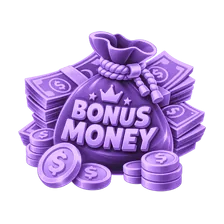
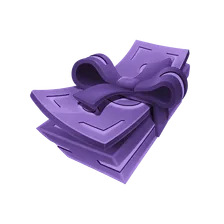
feat(prizes): swap in the final free-chips and bonus-money art
Both types shipped with generated stand-ins so the contract could go out
ahead of the artwork. This replaces them in every slot of both brands.

Vegas prize art is rebuilt from the originals inside the Figma mockup rather
than the copies that came round via Drive. Those were cropped with extra
padding: the object filled 5.7pp less of the frame than the mockup does, which
drew bonus-money noticeably smaller than cash on the card. cash and coin
already matched their frames to within 0.4pp, so they are the reference the
two new types are now aligned to — bonus-money sits 3.8% under cash, the same
gap the design has, instead of the 11.3% it had.

Vegas missed/ art is left alone: all six disco balls already agree to within
1.3pp, so the supervisor's export is right there.

Thor's objects-sm pair is derived from the new objects-lg art at the framing
ratio the existing lg/sm pairs share (1.0445), keeping a past day's object
slightly tighter in frame than today's, as the other five prizes do.

INTEGRATION.md §11 now describes the art as drawn, and carries back the note
that bonus-money is no longer an alias for cash — the one behaviour change in
this version, and the only thing an existing integration can trip over.

diff --git a/INTEGRATION.md b/INTEGRATION.md
@@ -29,6 +29,9 @@
 - пісочниця перемикається між брендами: `lootbox-test/index.html?project=thor`;
 - словник `prizeType` тепер один на всі бренди (§11). Thor раніше називав монету
 `coins` — значення досі приймається, але канонічне ім'я `coin`;
+- **два нові типи призу — `free-chips` і `bonus-money`** (§11), обидва бренди їх
+малюють. Разом з цим `bonus-money` **перестав бути псевдонімом** `cash` і став
+самостійним призом — єдина зміна поведінки в цій версії, деталі у врізці в §11;
 - §8 «Анімації» описує спільну модель двох фаз, а конкретика кожного бренда
 (диско-шар Vegas, портал Thor) переїхала у §11.
 
@@ -508,13 +511,20 @@ query-параметрами без префікса `c{i}_` (напр. `c{i}_st
 | `cash`          | пачка банкнот      | банкноти з монетами             |
 | `cashback`      | скарбничка         | банкноти зі стрілкою повернення |
 | `free-spins`    | слот               | слот                            |
-| `free-chips`    | фішки казино       | фішки казино                    |
-| `bonus-money`   | мішок з грошима    | мішок з грошима                 |
+| `free-chips`    | фішка казино       | фішка казино                    |
+| `bonus-money`   | банкноти з бантом  | банкноти з бантом               |
 
 
 Значення — це сутність призу, а не назва картинки: арт у брендів різний, сенс
 однаковий. Невідоме значення тихо падає в `coin`, тож картка **ніколи** не
 залишається без арту. `coins` приймається як `coin`.
+
+> **⚠ `bonus-money` змінив значення.** Раніше це ім'я було псевдонімом `cash`:
+> контракт виходив з того, що «бонусні гроші» і «банкноти» — це один приз під
+> двома іменами. Це виявилось помилкою — тепер це **окремий тип призу** зі своїм
+> артом. Payload, який надсилав `bonus-money` і розраховував побачити банкноти,
+> тепер отримає арт `bonus-money`; якщо вам потрібні саме банкноти, надсилайте
+> `cash`.
 
 
 
